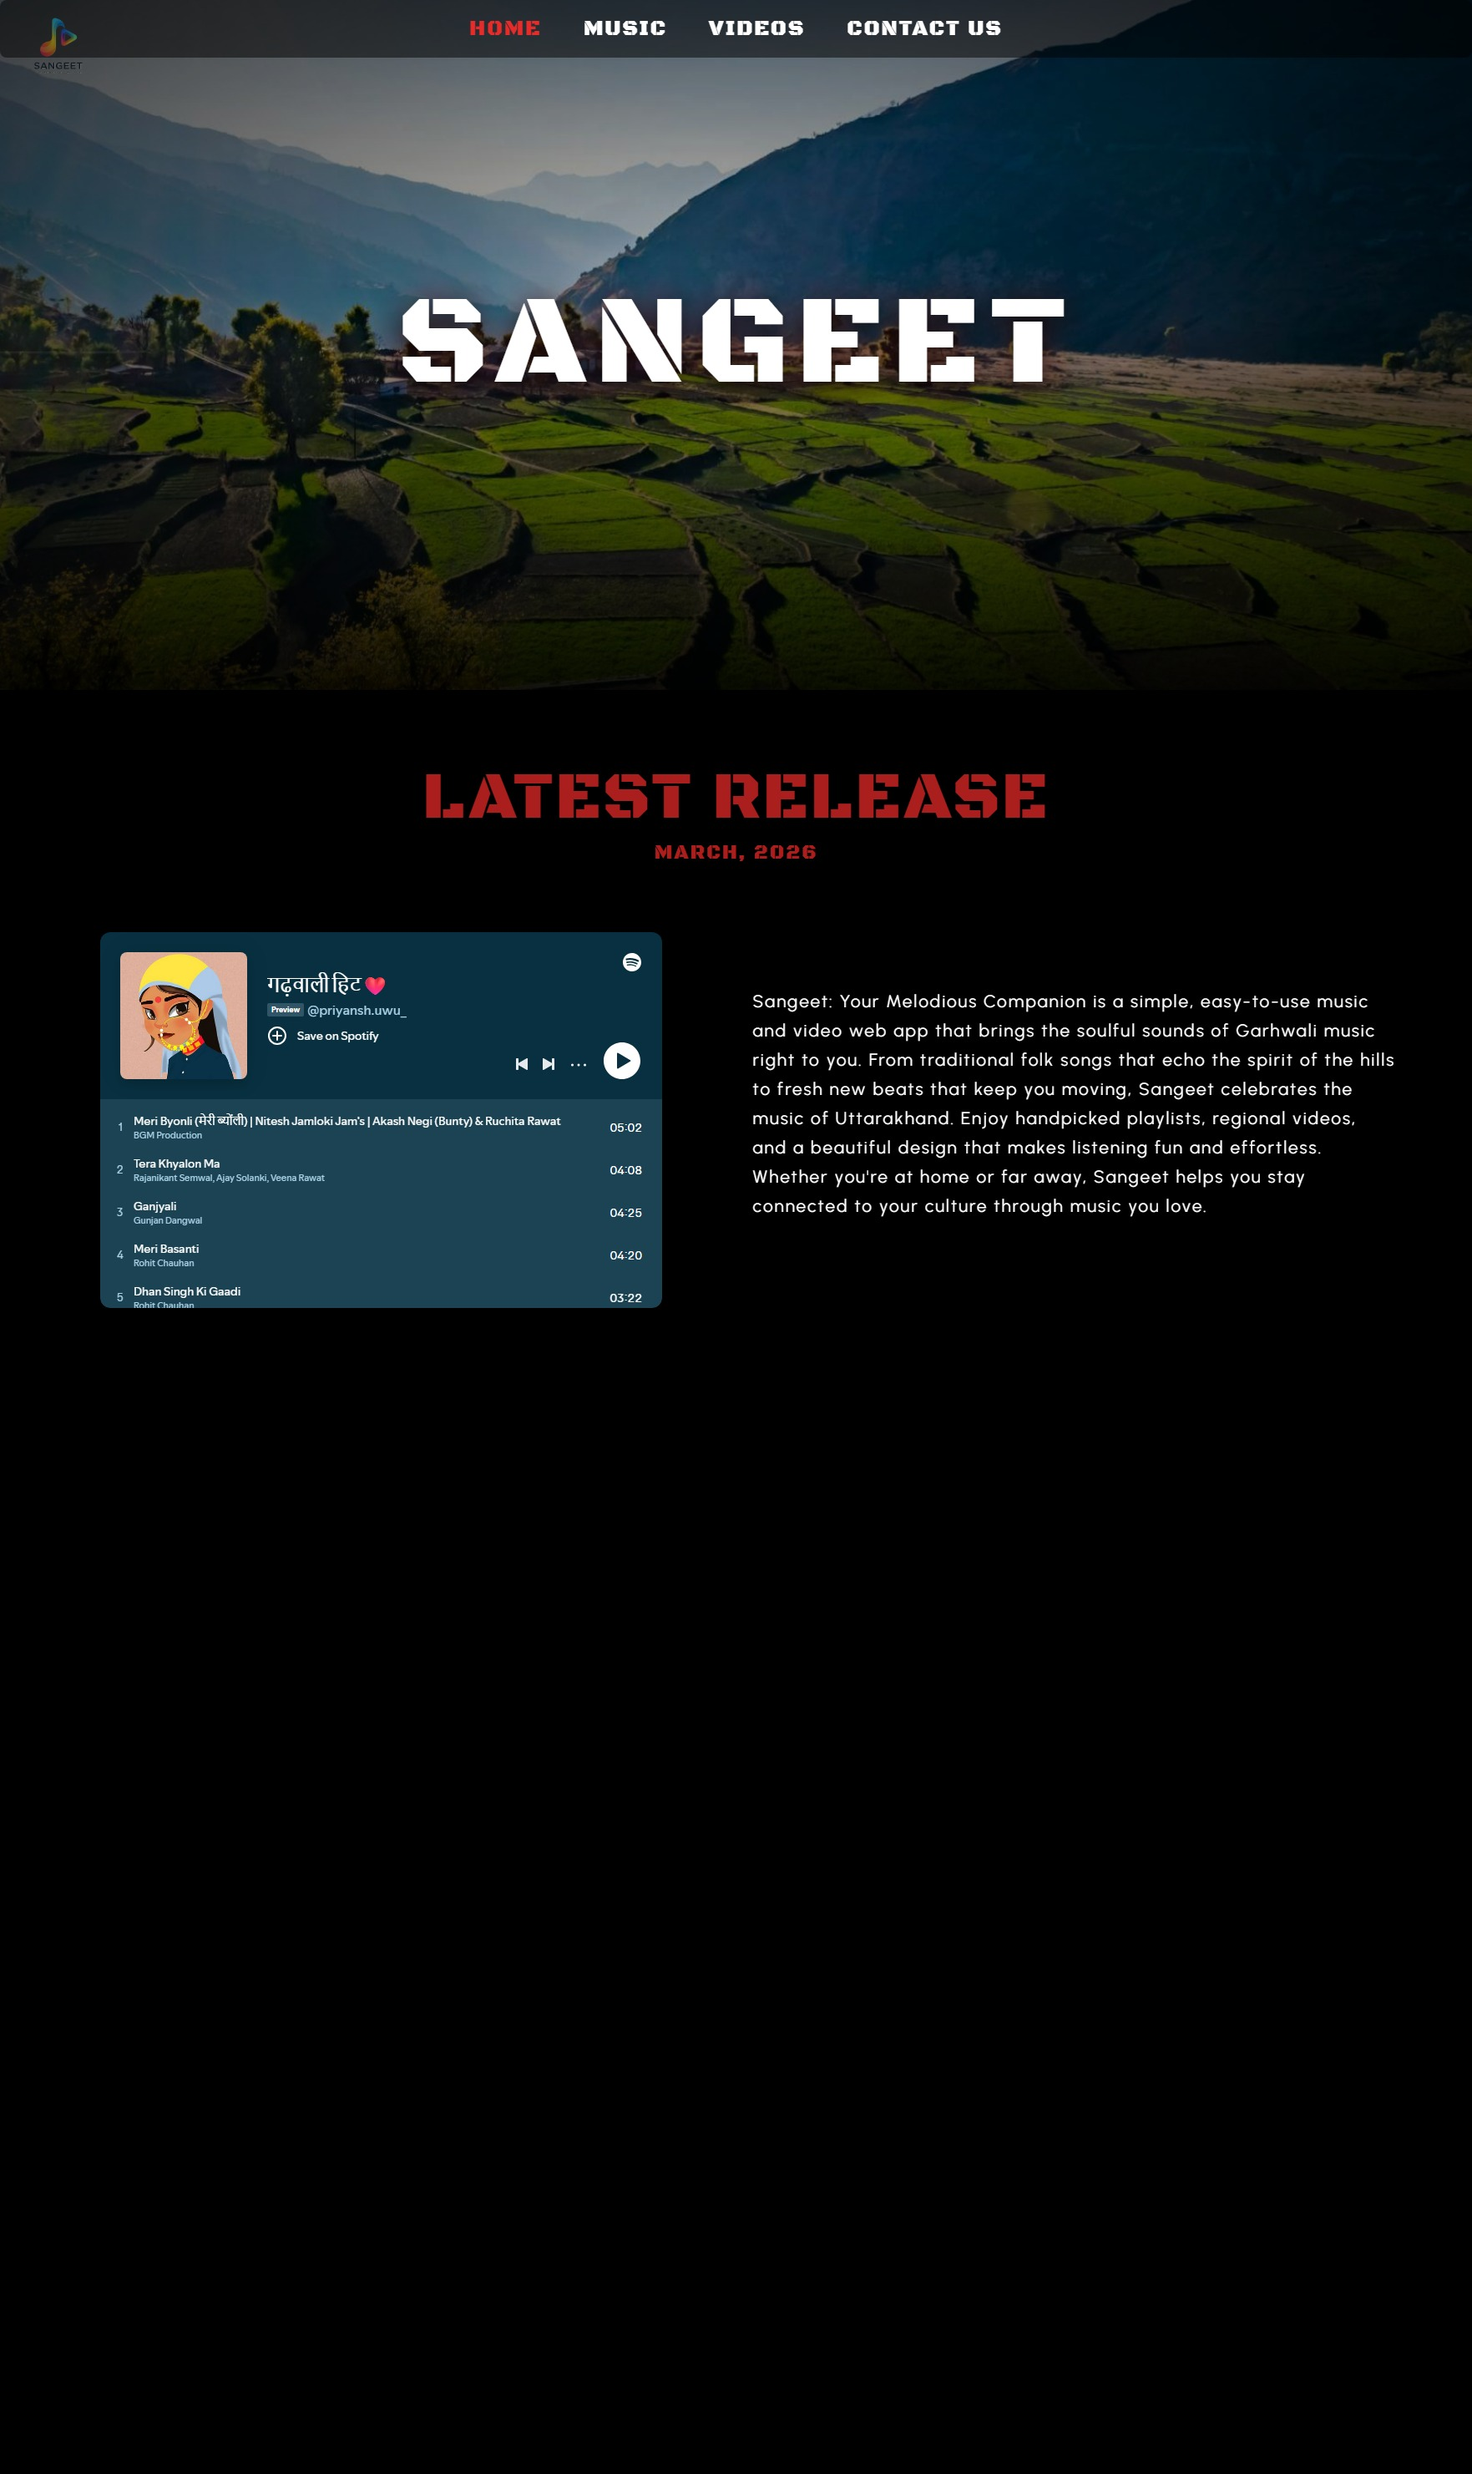
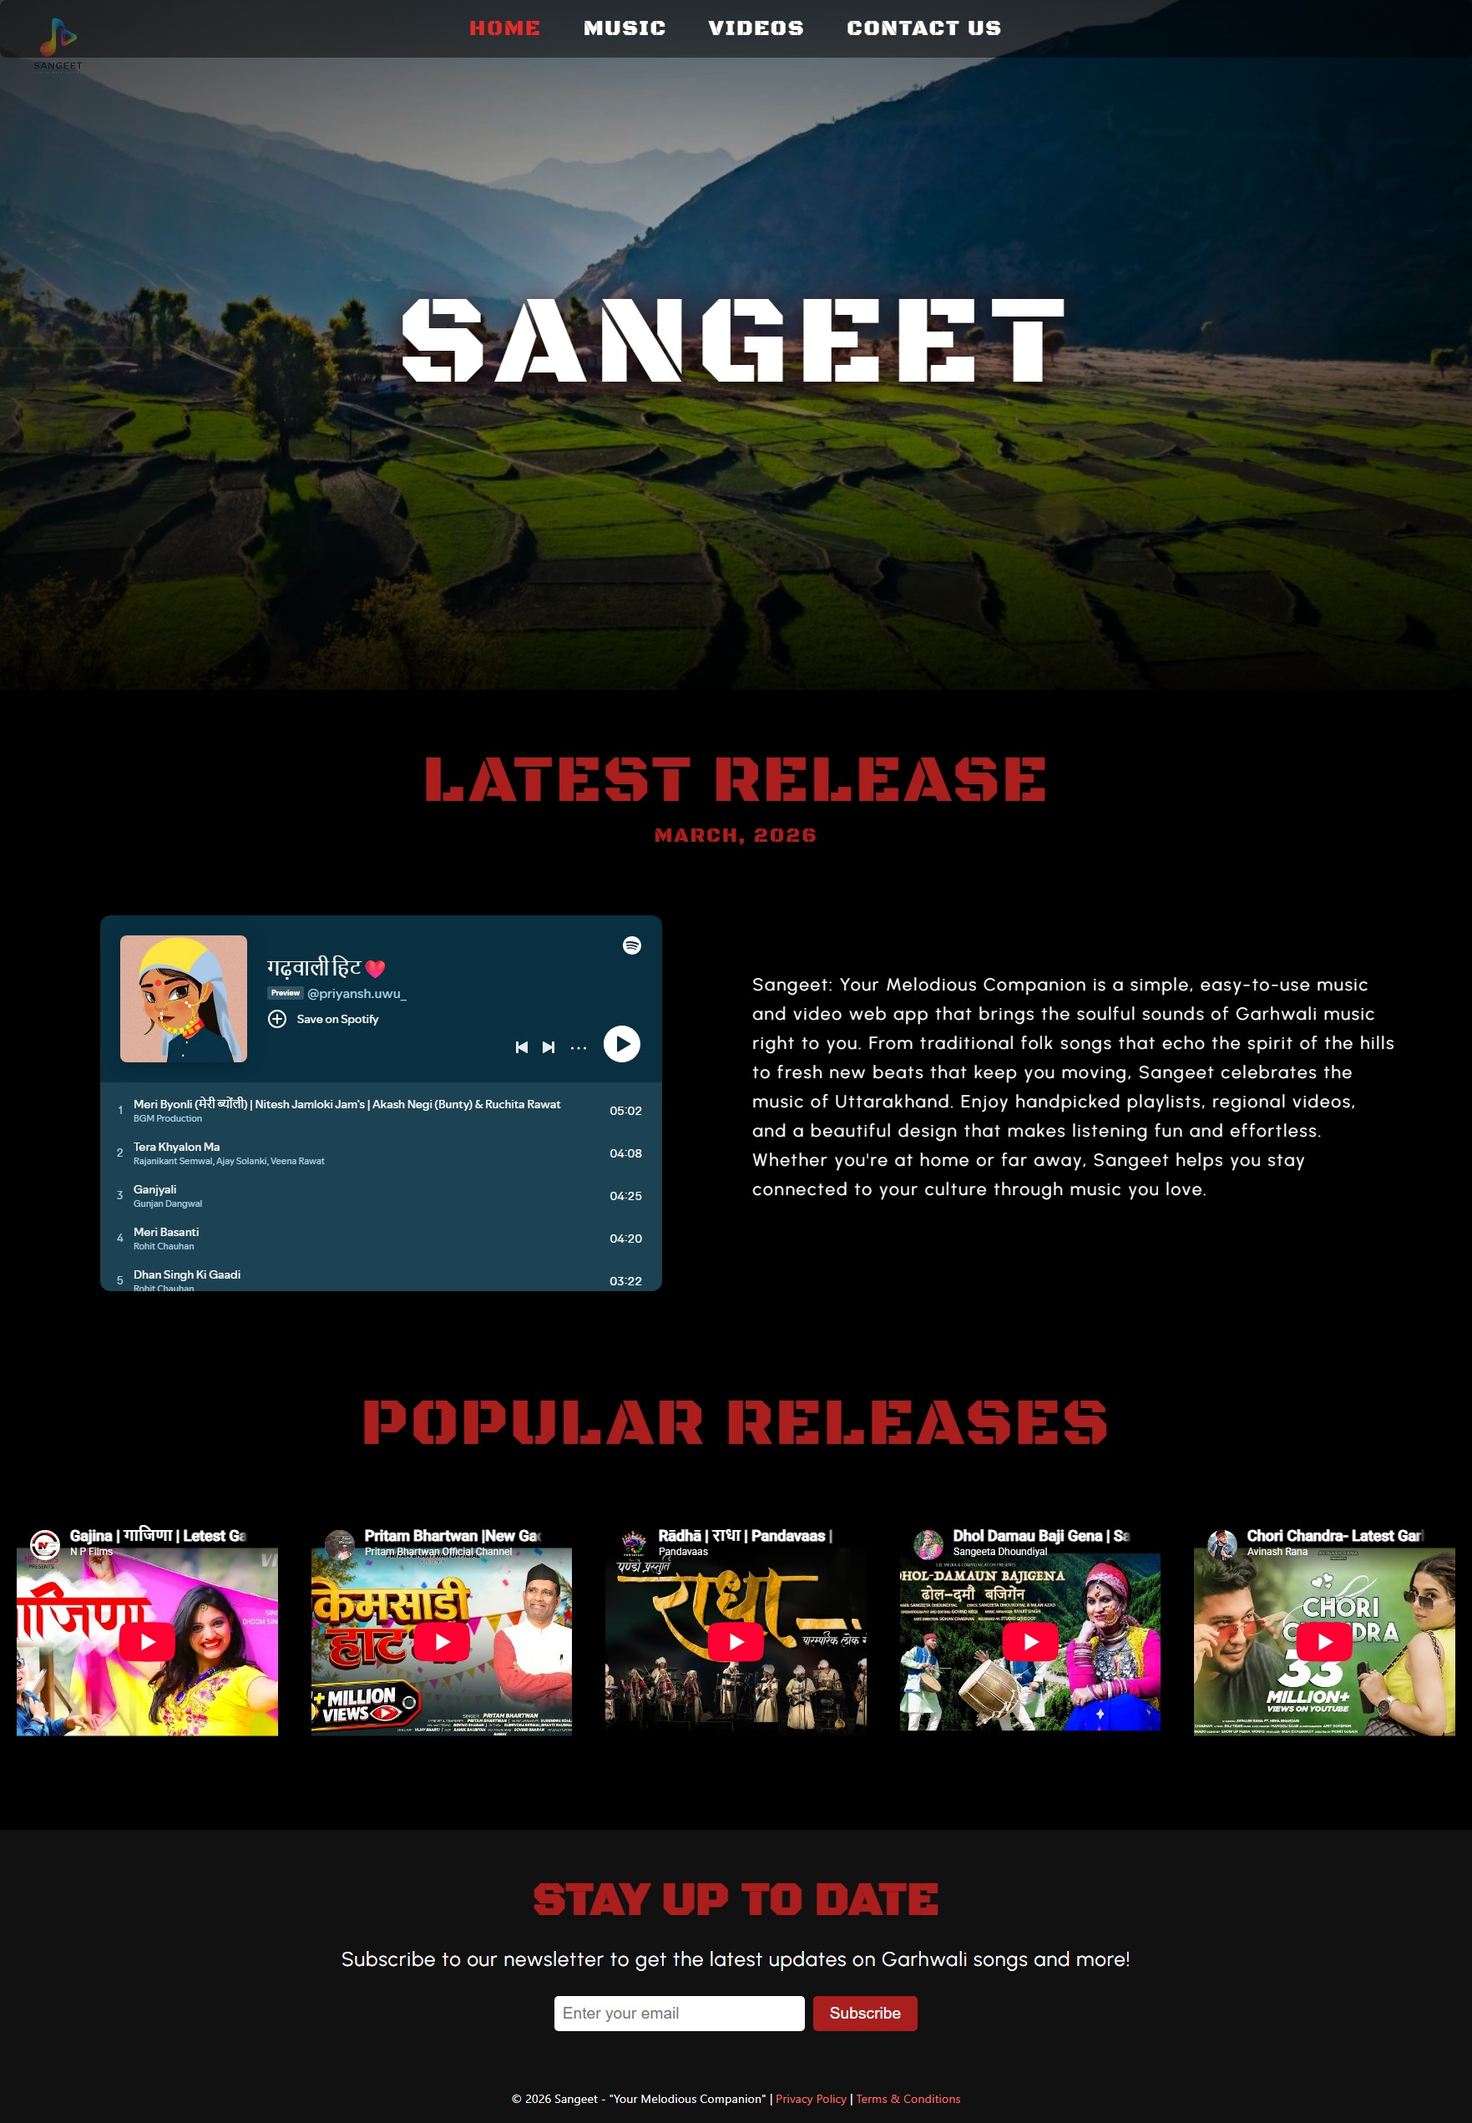
Capture complete home UI, load Google Maps, and open Now Playing modal in screenshot

diff --git a/index.html b/index.html
@@ -42,7 +42,7 @@
         <iframe style="border-radius:12px"
           src="https://open.spotify.com/embed/playlist/1lvlW9VD9FEi2vKVzKPBTP?utm_source=generator" width="100%"
           height="450" frameBorder="0" allowfullscreen=""
-          allow="autoplay; clipboard-write; encrypted-media; fullscreen; picture-in-picture" loading="lazy">
+          allow="autoplay; clipboard-write; encrypted-media; fullscreen; picture-in-picture" loading="eager">
         </iframe>
 
 

diff --git a/contact.html b/contact.html
@@ -81,7 +81,7 @@
            width="600" height="450" 
            style="border:0;" 
            allowfullscreen="" 
-           loading="lazy" referrerpolicy="no-referrer-when-downgrade">
+           loading="eager" referrerpolicy="no-referrer-when-downgrade">
           </iframe>
     </div>
     <footer>

diff --git a/style.css b/style.css
@@ -162,12 +162,12 @@ main {
 }
 
 .latest-release {
-  min-height: 100vh;
+  min-height: auto;
   height: auto;
   width: 100%;
   background-color: #000000;
   text-align: center;
-  padding: 80px 20px 40px;
+  padding: 60px 20px 40px;
 }
 
 .release-title {
